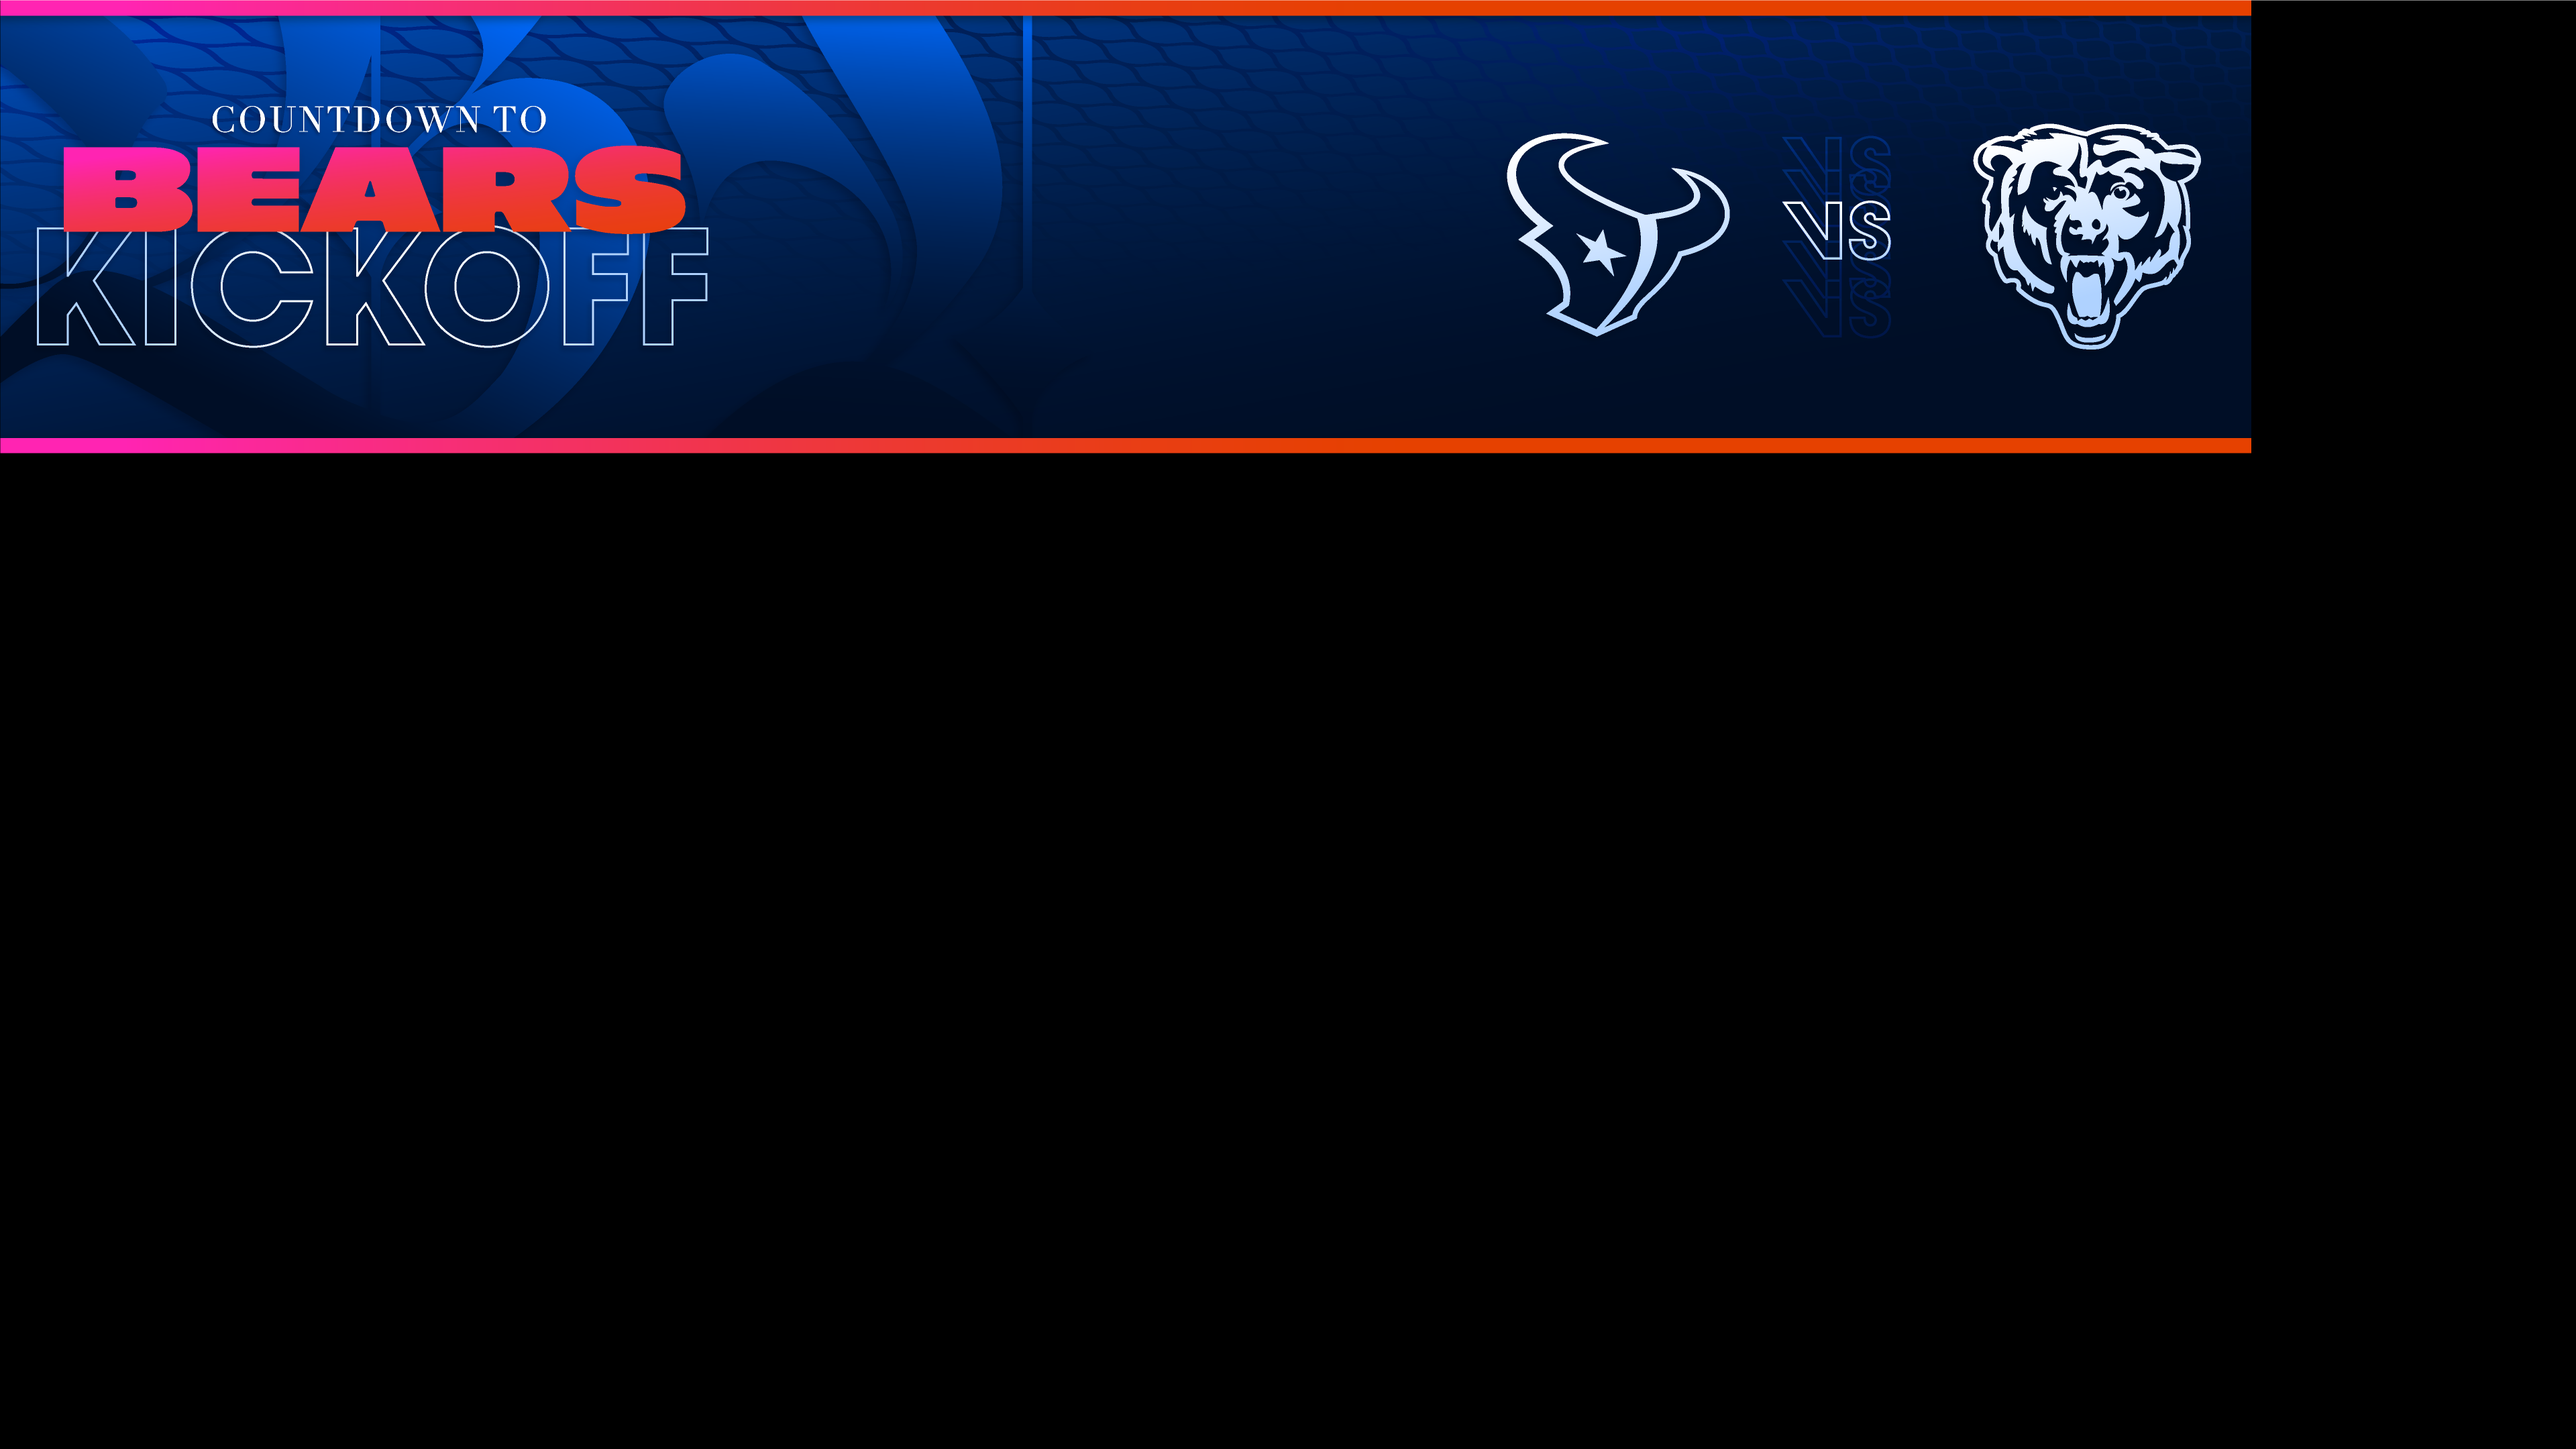
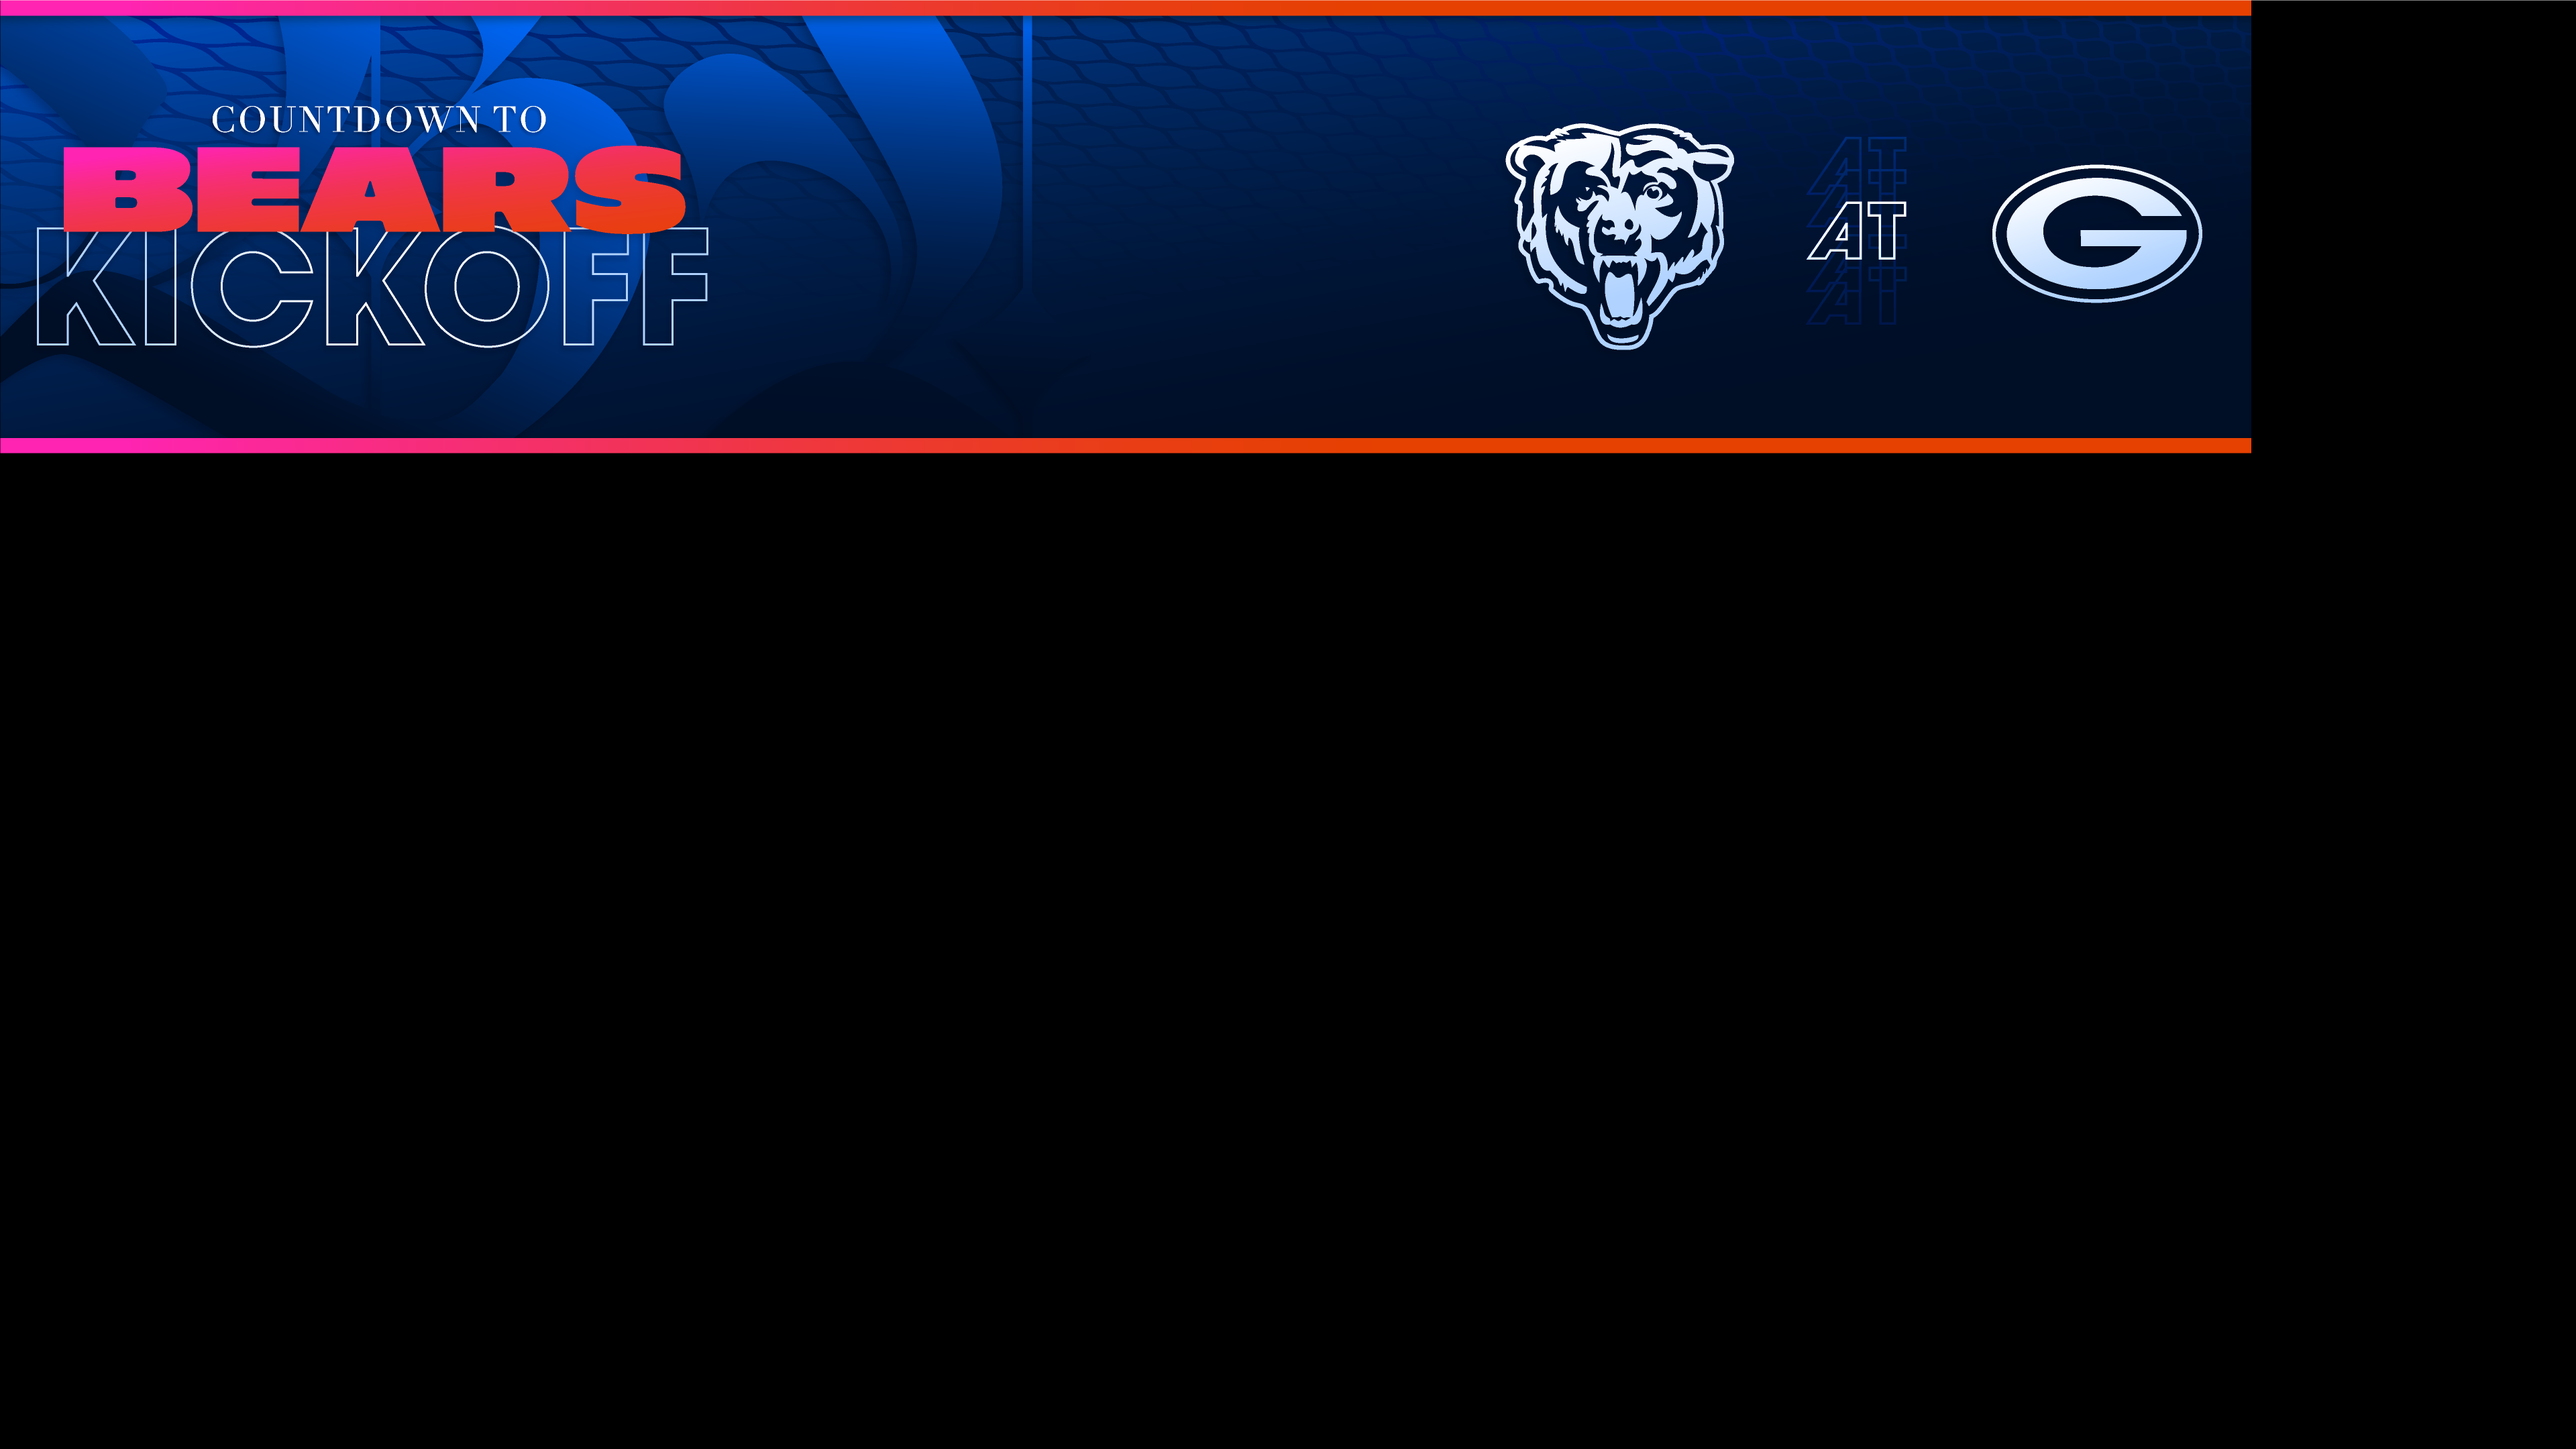
actually GB this time

Changed region(s): [[0.5625, 0.062, 0.875, 0.2481]]

diff --git a/CurrentWeek/Horizontal/script/script.js b/CurrentWeek/Horizontal/script/script.js
@@ -68,9 +68,9 @@ $(document).ready(function(){
 			return futureFormattedDate
 		}
 		//USE 24HR MILITARY TIME
-		//HST
+		//GB
 		$("#countdown").countdown({
-			date: "25 September 2022 12:00:00",
+			date: "18 September 2022 19:20:00",
 			format: "on"
 		});
 	});
